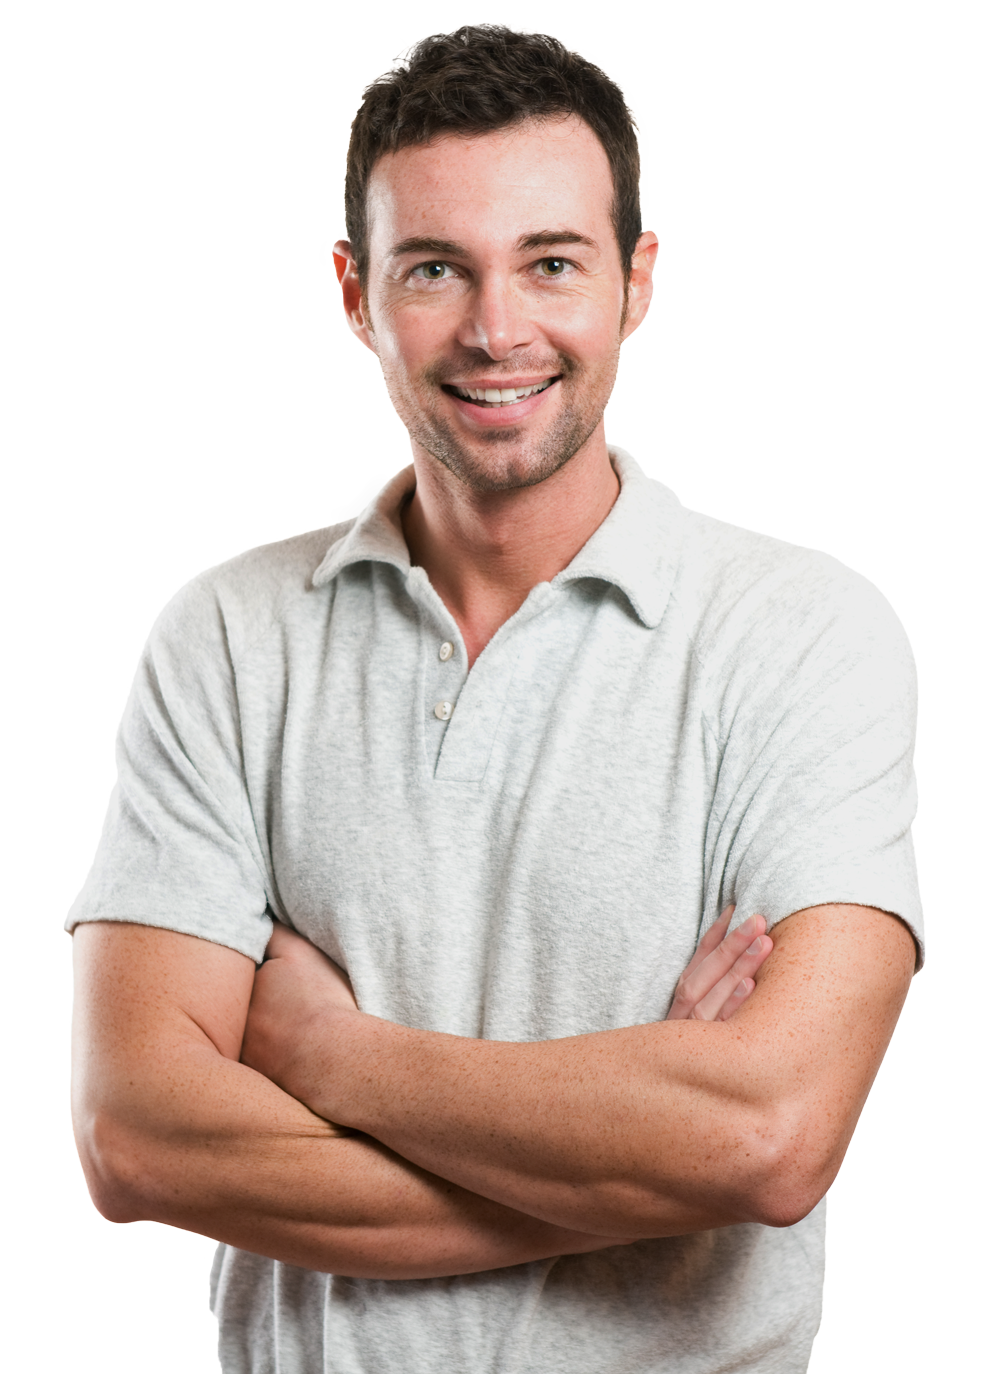
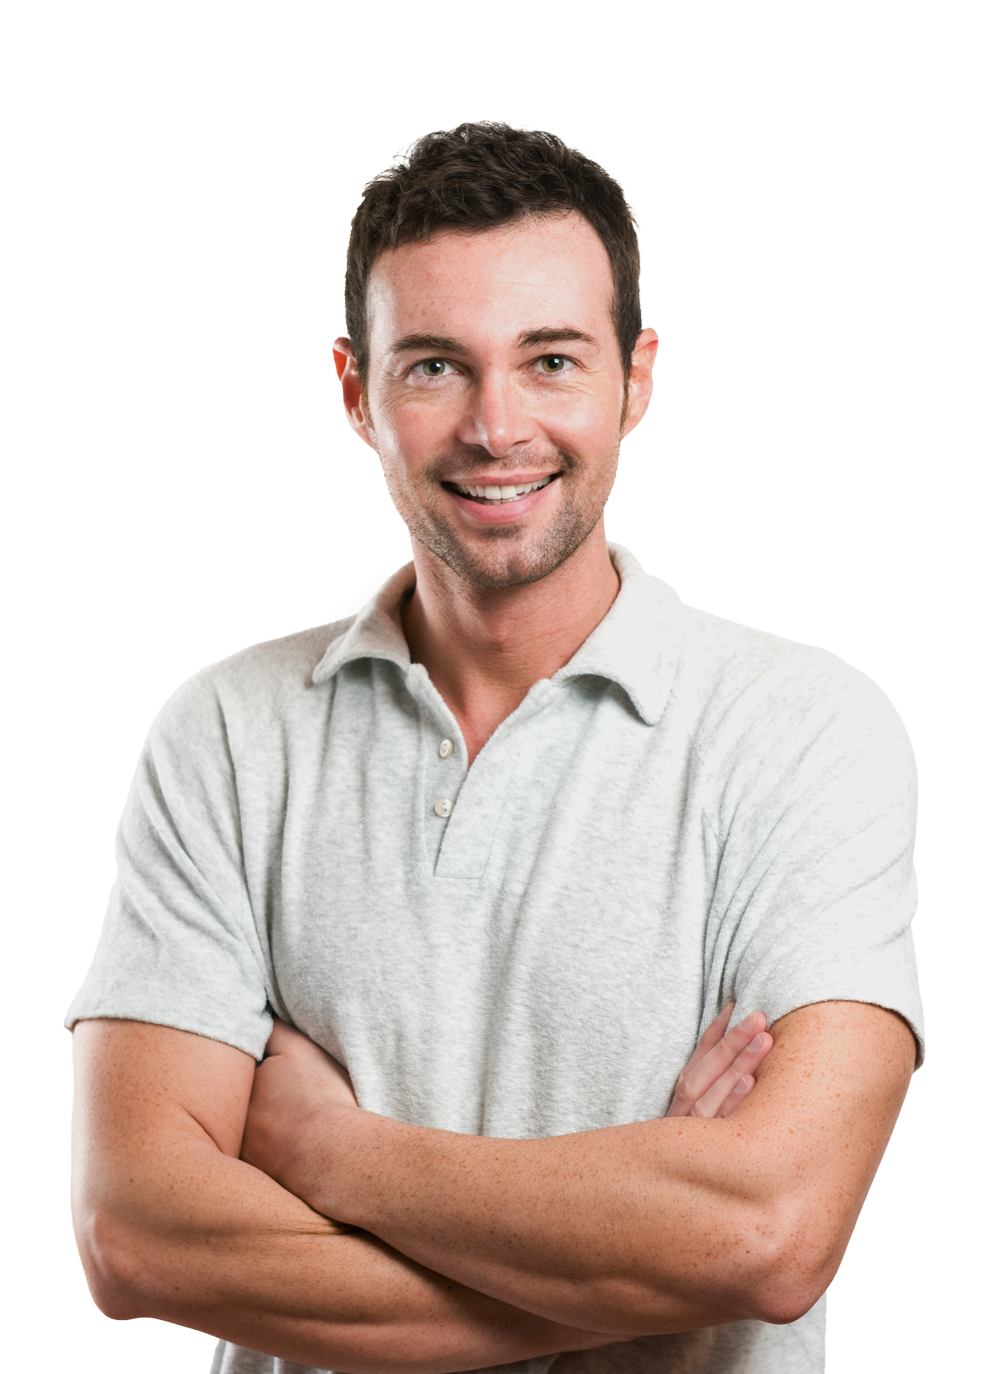
set team

diff --git a/index.html b/index.html
@@ -346,7 +346,7 @@
                 </div>
               </div>
 
-                          </div>
+            </div>
           </div>
 
           <div class="col-lg-4" data-aos="fade-left">
@@ -410,7 +410,7 @@
                   <div class="quote-icon">
                     <i class="bi bi-quote"></i>
                   </div>
-                  <p>"Umair delivered an exceptional website that exceeded our expectations. His attention to detail and
+                  <p>"Codex delivered an exceptional website that exceeded our expectations. His attention to detail and
                     technical expertise made the entire process smooth and efficient."</p>
                   <div class="rating">
                     <i class="bi bi-star-fill"></i>
@@ -438,7 +438,7 @@
                   <div class="quote-icon">
                     <i class="bi bi-quote"></i>
                   </div>
-                  <p>"Working with Umair was a game-changer for our business. He transformed our outdated website into a
+                  <p>"Working with Codex was a game-changer for our business. He transformed our outdated website into a
                     modern, user-friendly platform that significantly increased our conversions."</p>
                   <div class="rating">
                     <i class="bi bi-star-fill"></i>
@@ -466,7 +466,7 @@
                   <div class="quote-icon">
                     <i class="bi bi-quote"></i>
                   </div>
-                  <p>"Umair's professionalism and technical skills are outstanding. He delivered our e-commerce site on
+                  <p>"Codex's professionalism and technical skills are outstanding. He delivered our e-commerce site on
                     time
                     and within budget, with features that have helped us scale our business."</p>
                   <div class="rating">
@@ -495,7 +495,7 @@
                   <div class="quote-icon">
                     <i class="bi bi-quote"></i>
                   </div>
-                  <p>"The custom CRM system Umair built for us has revolutionized how we manage customer relationships.
+                  <p>"The custom CRM system Codex built for us has revolutionized how we manage customer relationships.
                     His
                     ongoing support and maintenance have been invaluable."</p>
                   <div class="rating">
@@ -524,7 +524,7 @@
                   <div class="quote-icon">
                     <i class="bi bi-quote"></i>
                   </div>
-                  <p>"Umair's mobile app development skills are exceptional. He created an intuitive app that our
+                  <p>"Codex's mobile app development skills are exceptional. He created an intuitive app that our
                     customers
                     love, with seamless integration to our existing systems."</p>
                   <div class="rating">
@@ -553,7 +553,7 @@
                   <div class="quote-icon">
                     <i class="bi bi-quote"></i>
                   </div>
-                  <p>"Umair's SEO optimization work has dramatically improved our online visibility. Our search rankings
+                  <p>"Codex's SEO optimization work has dramatically improved our online visibility. Our search rankings
                     and
                     organic traffic have increased significantly since he took over our website."</p>
                   <div class="rating">
@@ -601,27 +601,10 @@
       </div>
 
       <div class="container" data-aos="fade-up" data-aos-delay="100">
-        <div class="row justify-content-center">
 
-          <!-- Team Member 1 -->
-          <div class="col-lg-4 col-md-6 mb-4" data-aos="fade-up" data-aos-delay="100">
-            <div class="team-card">
-              <div class="team-member-image">
-                <div class="image-background"></div>
-                <img src="assets/img/person/Team1.png" class="img-fluid" alt="Team Member">
-              </div>
-              <div class="team-member-info">
-                <h4>John Smith</h4>
-                <h5>Co Founder</h5>
-                <p>Experienced full-stack developer with expertise in modern web technologies and a passion for creating
-                  innovative solutions that drive business growth and user engagement.</p>
-
-              </div>
-            </div>
-          </div>
-
-          <!-- Team Member 2 -->
-          <div class="col-lg-4 col-md-6 mb-4" data-aos="fade-up" data-aos-delay="200">
+        <!-- Leader Card - Top -->
+        <div class="row justify-content-center mb-5">
+          <div class="col-lg-5 col-md-8" data-aos="fade-up" data-aos-delay="100">
             <div class="leader-card">
               <div class="team-member-image">
                 <div class="image-background"></div>
@@ -641,30 +624,61 @@
               </div>
             </div>
           </div>
+        </div>
 
-          <!-- Team Member 3 -->
-          <div class="col-lg-4 col-md-6 mb-4" data-aos="fade-up" data-aos-delay="300">
-            <div class="team-card">
-              <div class="team-member-image">
-                <div class="image-background"></div>
-                <img src="assets/img/person/Team3.png" class="img-fluid" alt="Team Member">
-              </div>
-              <div class="team-member-info">
-                <h4>Michael Chen</h4>
-                <h5>Co Founder</h5>
-                <p>Strategic project manager with proven track record of delivering complex projects on time and within
-                  budget, ensuring seamless communication and exceptional team coordination.</p>
-
-              </div>
+      </div>
+      <!-- Team Cards - Bottom in Columns -->
+      <div class="row justify-content-center">
+        <!-- Team Member 1 -->
+        <div class="col-lg-3 col-md-8 mb-4" data-aos="fade-up" data-aos-delay="200">
+          <div class="team-card">
+            <div class="team-member-image">
+              <div class="image-background"></div>
+              <img src="assets/img/person/Team1.png" class="img-fluid" alt="Team Member">
+            </div>
+            <div class="team-member-info">
+              <h4>Muqadas Jabbar</h4>
+              <h5>Co Founder</h5>
+              <p>Experienced full-stack developer with expertise in modern web technologies and a passion for creating
+                innovative solutions that drive business growth and user engagement.</p>
             </div>
           </div>
-
-
-
-
         </div>
-      </div>
 
+        <!-- Team Member 2 -->
+        <div class="col-lg-3 col-md-8 mb-4" data-aos="fade-up" data-aos-delay="300">
+          <div class="team-card">
+            <div class="team-member-image">
+              <div class="image-background"></div>
+              <img src="assets/img/person/Team3.png" class="img-fluid" alt="Team Member">
+            </div>
+            <div class="team-member-info">
+              <h4>Michael Chen</h4>
+              <h5>Senior Developer</h5>
+              <p>Skilled full-stack developer specializing in modern web technologies, passionate about building
+                scalable solutions that enhance user experience and drive business growth.</p>
+            </div>
+          </div>
+        </div>
+
+        <!-- Team Member 3 -->
+        <div class="col-lg-3 col-md-8 mb-4" data-aos="fade-up" data-aos-delay="300">
+          <div class="team-card">
+            <div class="team-member-image">
+              <div class="image-background"></div>
+              <img src="assets/img/person/Team4.png" class="img-fluid" alt="Team Member">
+            </div>
+            <div class="team-member-info">
+              <h4>Hinia Akbar</h4>
+              <h5>Developer</h5>
+              <p>Passionate developer with expertise in modern web technologies and a commitment to creating innovative
+                solutions that drive business growth and user engagement.</p>
+            </div>
+          </div>
+        </div>
+
+      </div>
+    </section>
     </section>
     <!-- /Team Section -->
 
@@ -829,8 +843,7 @@
       class="bi bi-arrow-up-short"></i></a>
 
   <!-- Get Quote Button -->
-  <a href="Request-Quote.html" id="get-quote-btn"
-    class="get-quote-btn d-flex align-items-center justify-content-center">
+  <a href="Request-Quote.html" id="get-quote-btn" class="get-quote-btn d-flex align-items-center">
     <span>Request Quote</span>
     <i class="bi bi-chat-dots"></i>
   </a>

diff --git a/assets/css/main.css b/assets/css/main.css
@@ -2783,7 +2783,7 @@ section,
   height: 85%;
   display: flex;
   flex-direction: column;
-  margin-top: 50px;
+  margin-top: 0px;
 }
 
 .team .team-card:hover {
@@ -2794,7 +2794,7 @@ section,
 .team .team-member-image {
   position: relative;
   width: 100%;
-  height: 480px;
+  height: 320px;
   overflow: hidden;
   display: flex;
   align-items: center;
@@ -2814,8 +2814,8 @@ section,
 .team .team-member-image img {
   position: relative;
   z-index: 2;
-  width: 310px;
-  height: 460px;
+  width: 170px;
+  height: 250px;
   object-fit: cover;
   transition: transform 0.3s ease;
   margin-bottom: -20px;
@@ -2905,14 +2905,22 @@ section,
 }
 
 .team .leader-card img[src="assets/img/person/Team2.png"] {
-  width: 200px !important;
-  height: 250px !important;
+  width: 370px !important;
+  height: 460px !important;
+  margin-top: 150px;
 }
+
 
 @media (max-width: 768px) {
   .team .team-member-image {
     height: 240px;
   }
+
+  .team .leader-card img[src="assets/img/person/Team2.png"] {
+  width: 290px !important;
+  height: 360px !important;
+  margin-top: 120px;
+}
   
   .team .team-member-image img {
     width: 150px;